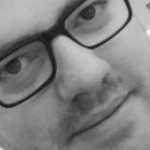
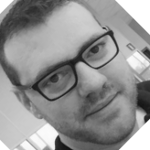
adicionado palestrantes novos

diff --git a/index.html b/index.html
@@ -156,7 +156,7 @@
 				<div class="orador-picture" id="picture5">
 					<div class="text_display">
 						<p class="autor">Daniel Machado<br/> </p>
-<p class="area">Solution Architect na Responsiva<span style="font-weight:600"> </span></p>
+<p class="area">Solution Architect na <span style="font-weight:600">Responsiva</span></p>
 					</div>
 				</div>
 			</div>
@@ -253,8 +253,8 @@
 			<div class="span2 oradores">
 				<div class="orador-picture" id="picture14">
 					<div class="text_display">
-						<p class="autor"> <br/> </p>
-						<p class="area"> <span style="font-weight:600"> </span></p>
+						<p class="autor">Elias <br/>Brito</p>
+						<p class="area"> Diretor na </br><span style="font-weight:600">Jebs Web</span></p>
 					</div>
 				</div>
 			</div>

diff --git a/css/main.css b/css/main.css
@@ -978,8 +978,8 @@ width: 160px;
 }
 
 .linkLogoOpenInn{
-	width:85px;
-	margin-right:-10px;
+	width:160px;
+	margin-right: -10px;
 	padding-left: 2px;
 }
 
@@ -998,10 +998,9 @@ width: 160px;
 	width: 95px;
 }
 
-
 .linkLogoJebs{
 	width:100px;
-	margin-left: 237px;
+	margin-left: 165px;
 }
 
 .linkLogoDelphos{
@@ -1020,7 +1019,6 @@ width: 160px;
 	margin-top: -10px;
 	margin-right: 35px;
 }
-
 
 .linkLogoSucesu{
 		width:125px;
@@ -1047,7 +1045,6 @@ width: 160px;
 	margin-right: 150px;
 }
 
-
 .linkLogoPentaho{
 	width:92px;
 	margin-top: 3px;
@@ -1060,7 +1057,6 @@ width: 160px;
 	color:#444;
 	font-weight:700;
 }
-
 
 .tabs li {
 	display: inline;
